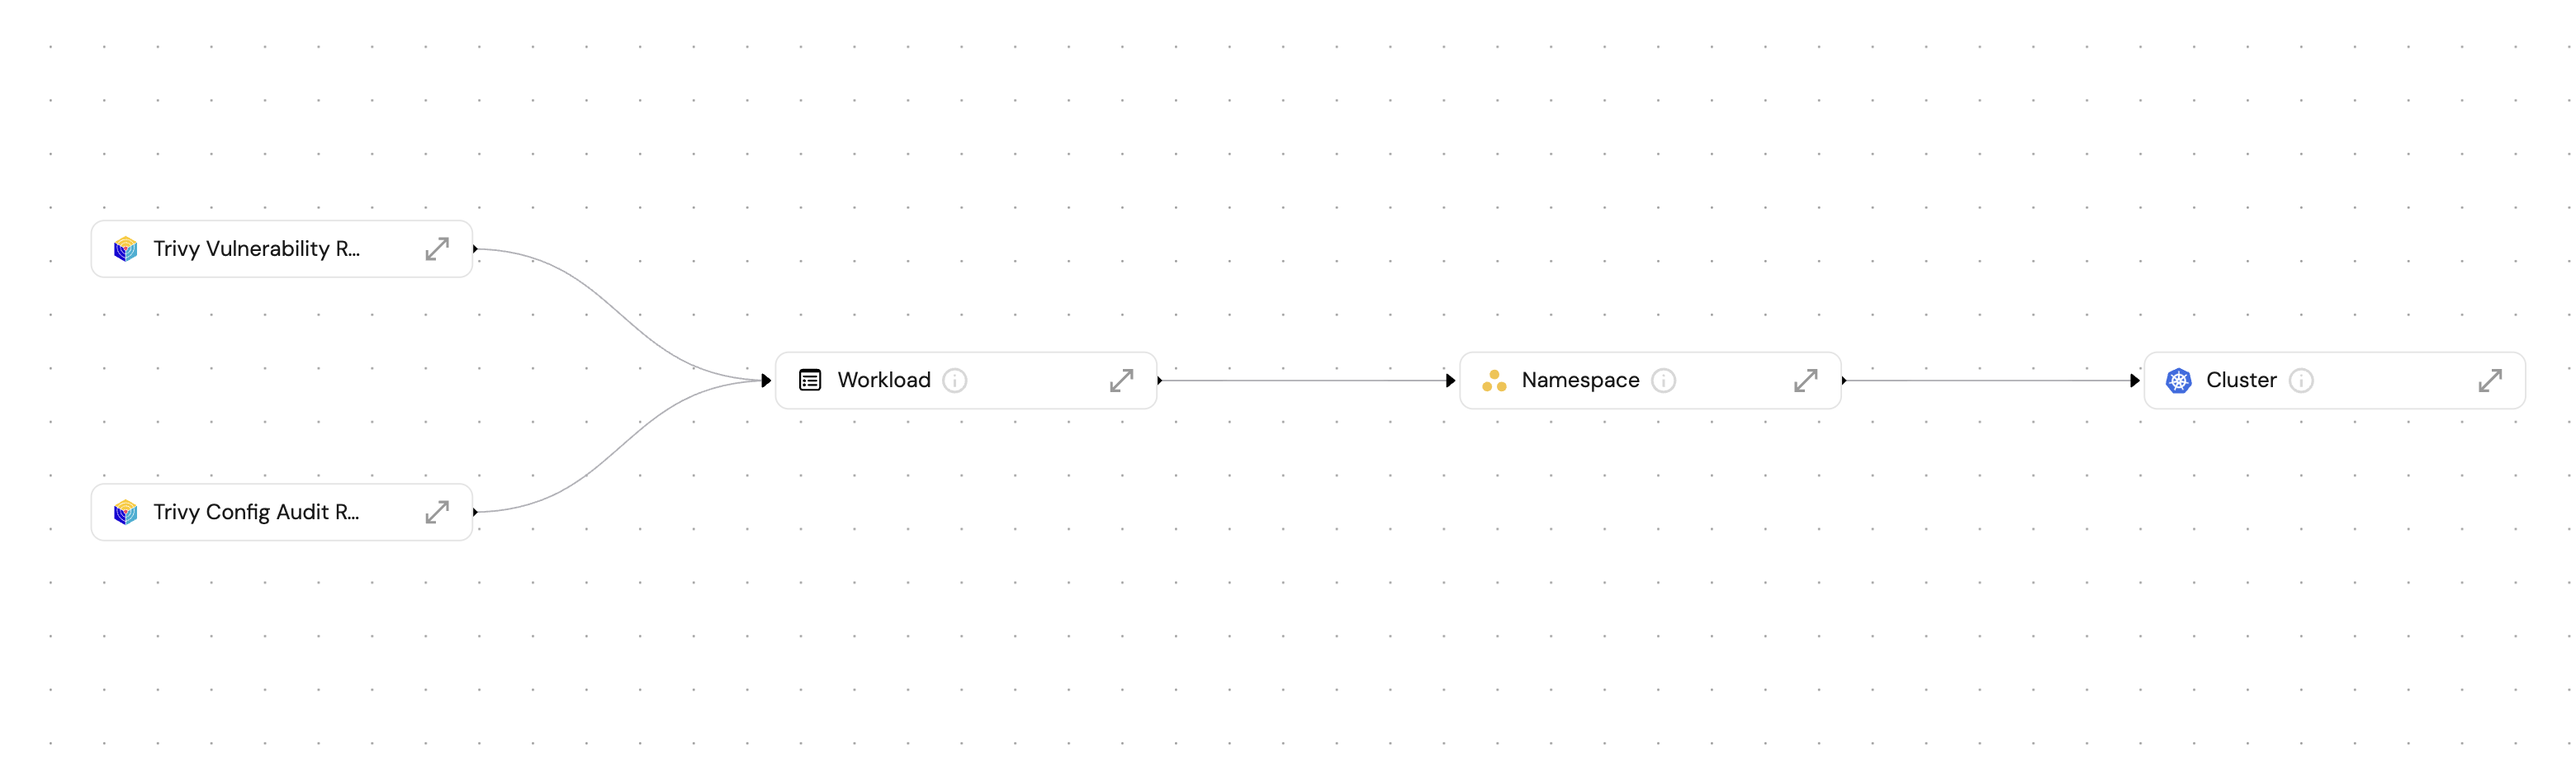
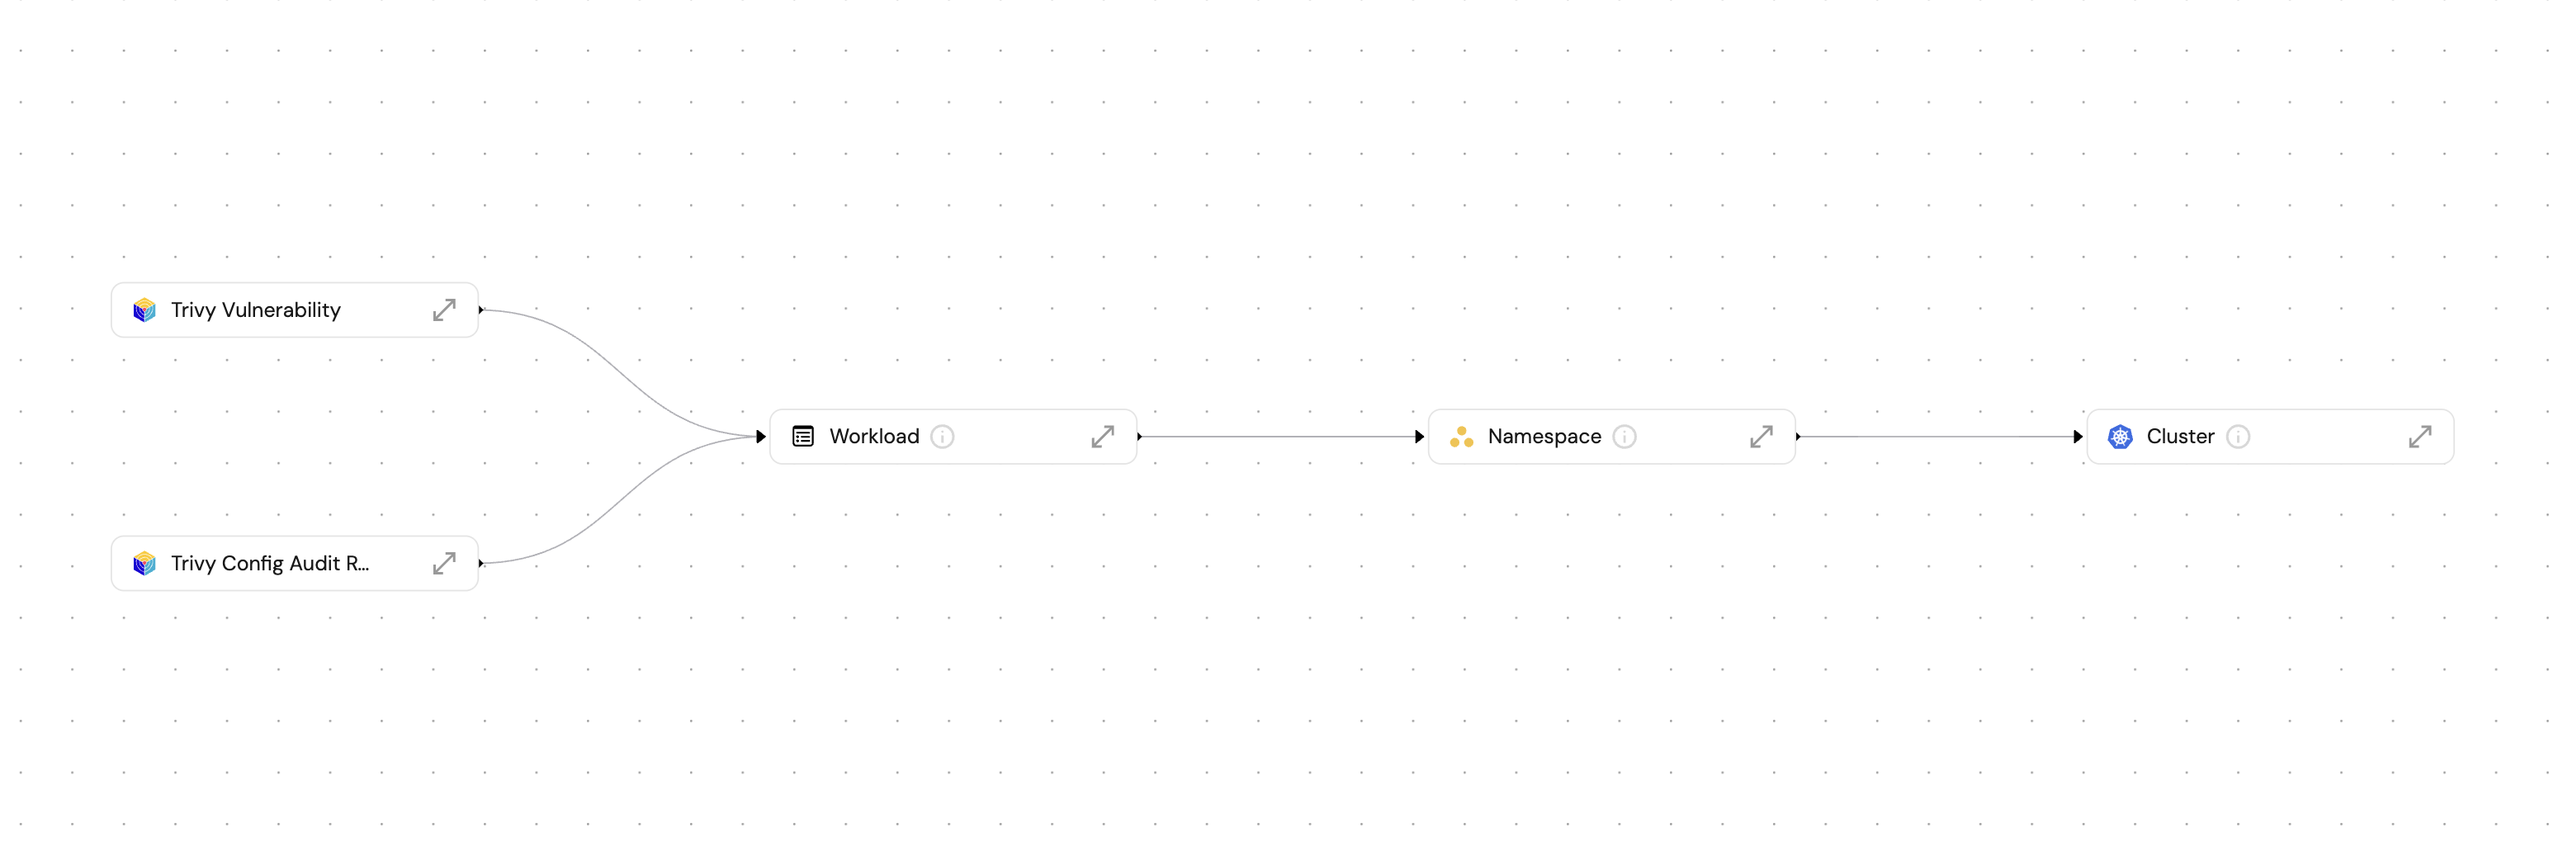
Revise name of blueprint

diff --git a/docs/build-your-software-catalog/sync-data-to-catalog/kubernetes/templates/trivy.md b/docs/build-your-software-catalog/sync-data-to-catalog/kubernetes/templates/trivy.md
@@ -46,7 +46,7 @@ This `blueprints.json` file defines the following blueprints:
 - Namespace
 - Workload
 - Trivy Config Audit Report
-- Trivy Vulnerability Report
+- Trivy Vulnerability
 
 :::note
 
@@ -61,7 +61,7 @@ This `blueprints.json` file defines the following blueprints:
 
 - `Trivy Config Audit Report` represents checks performed by Trivy against a Kubernetes object's configuration
 
-- `Trivy Vulnerability Report` represents the latest vulnerabilities found in a container image of a given Kubernetes workload
+- `Trivy Vulnerability` represents the latest vulnerabilities found in a container image of a given Kubernetes workload
 :::
 
 Below are the Trivy blueprint schemas used in the exporter:
@@ -151,12 +151,12 @@ Below are the Trivy blueprint schemas used in the exporter:
 </details>
 
 <details>
-<summary> <b>Trivy vulnerability report blueprint (click to expand)</b> </summary>
+<summary> <b>Trivy vulnerability blueprint (click to expand)</b> </summary>
 
 ```json showLineNumbers
 {
    "identifier": "trivyVulnerabilityReport",
-   "title": "Trivy Vulnerability Report",
+   "title": "Trivy Vulnerability",
    "icon": "Trivy",
    "schema": {
       "properties": {
@@ -303,7 +303,7 @@ Below are the mappings for the Trivy resources:
 </details>
 
 <details>
-<summary> <b>Trivy vulnerability report mapping (click to expand)</b> </summary>
+<summary> <b>Trivy vulnerability mapping (click to expand)</b> </summary>
 
 ```yaml showLineNumbers
   - kind: aquasecurity.github.io/v1alpha1/vulnerabilityreports
